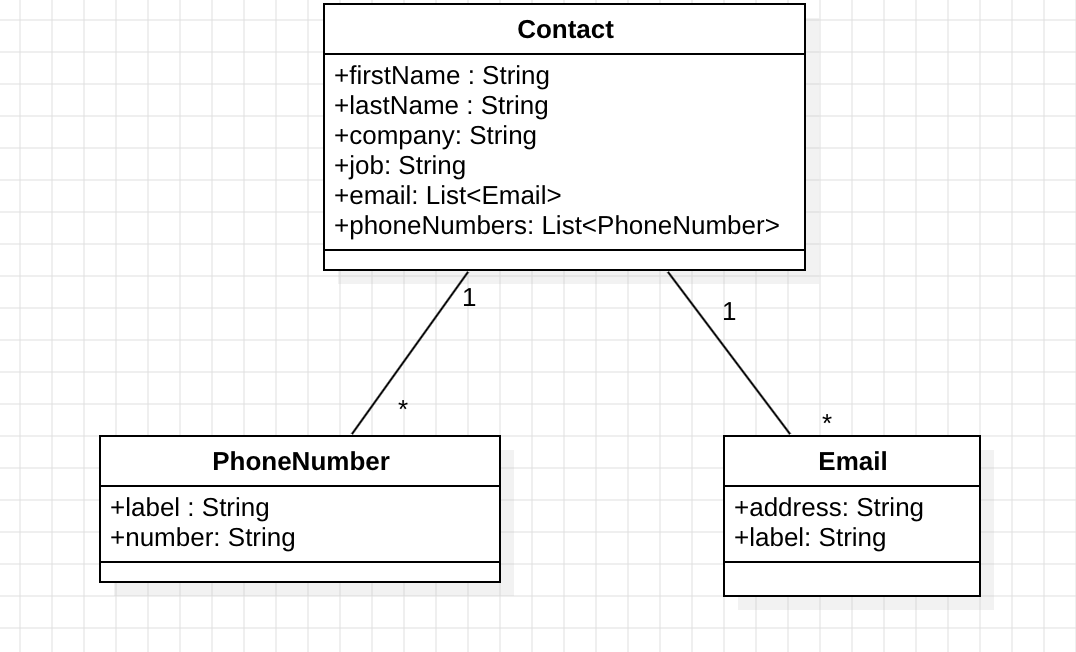
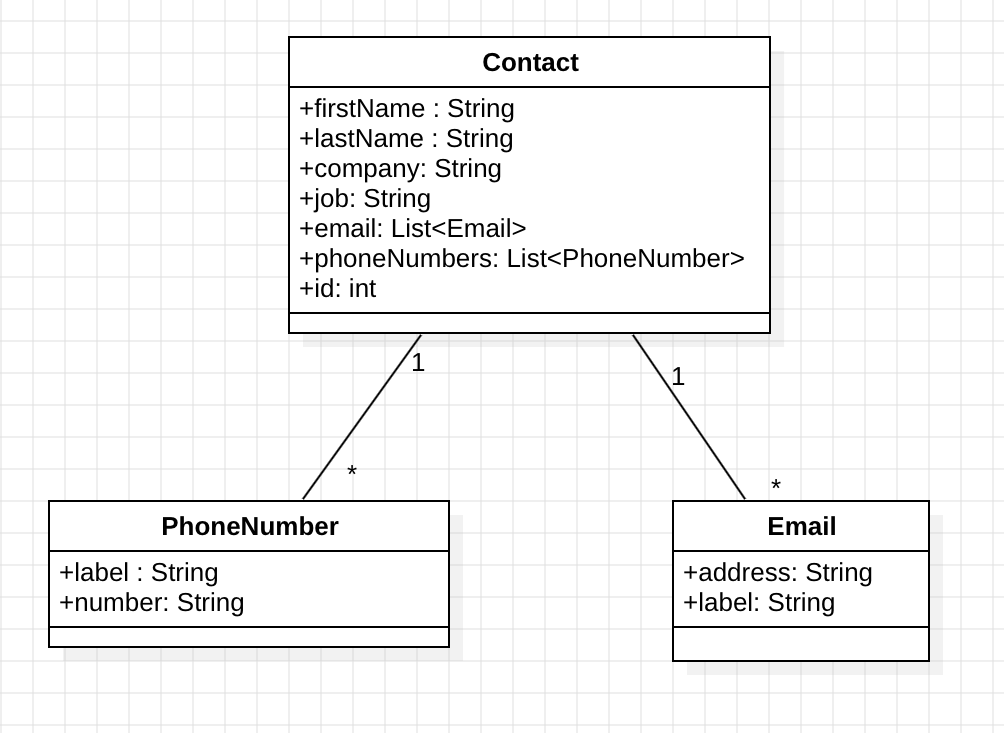
Id added

diff --git a/quiz_1/quiz_project/src/main/java/model/Contact.java b/quiz_1/quiz_project/src/main/java/model/Contact.java
@@ -4,6 +4,7 @@ import java.util.ArrayList;
 import java.util.List;
 
 public class Contact {
+    private int id;
     private String firstName;
     private String lastName;
     private String company;
@@ -15,13 +16,22 @@ public class Contact {
 
     }
 
-    public Contact(String firstName, String lastName, String company, String job) {
+    public Contact(int id, String firstName, String lastName, String company, String job) {
+        this.id = id;
         this.firstName = firstName;
         this.lastName = lastName;
         this.company = company;
         this.job = job;
         this.phoneNumbers = new ArrayList<>();
         this.emails = new ArrayList<>();
+    }
+
+    public int getId() {
+        return id;
+    }
+
+    public void setId(int id) {
+        this.id = id;
     }
 
     public void addPhone(PhoneNumber phone) {

diff --git a/quiz_1/quiz_project/src/main/java/main.java b/quiz_1/quiz_project/src/main/java/main.java
@@ -9,7 +9,7 @@ public class main {
 
 
     public static void main(String[] args) throws JsonProcessingException {
-        Contact contact = new Contact("Tsogt", "Enkhbat", "TestCompany", "Front-End Developer");
+        Contact contact = new Contact(1, "Tsogt", "Enkhbat", "TestCompany", "Front-End Developer");
         contact.addPhone(new PhoneNumber("641-555-9898", "Home"));
         contact.addPhone(new PhoneNumber("801-555-9999", "Work"));
         contact.addEmail(new Email("home.email@gmail.com", "Home"));
